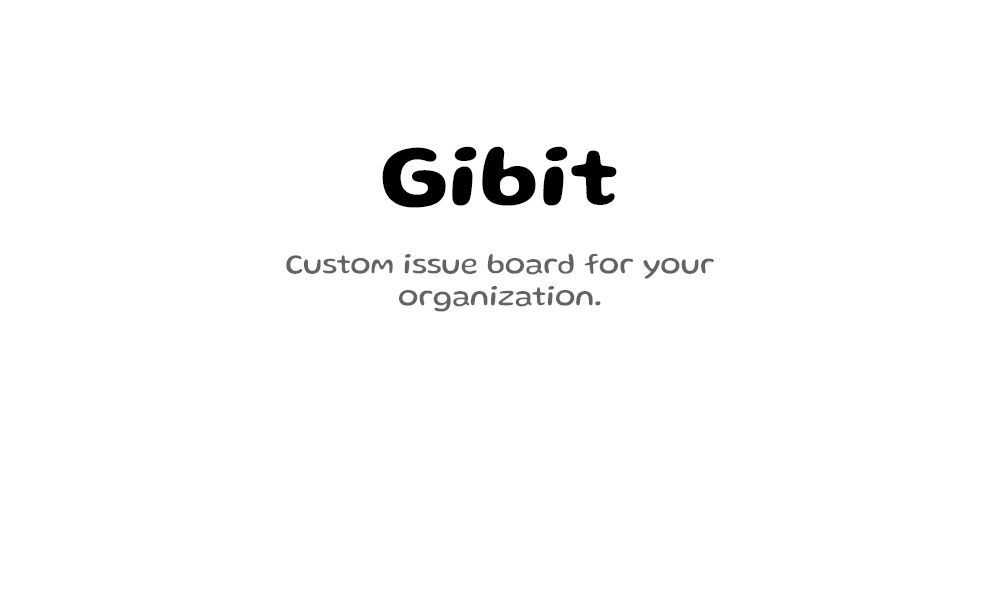
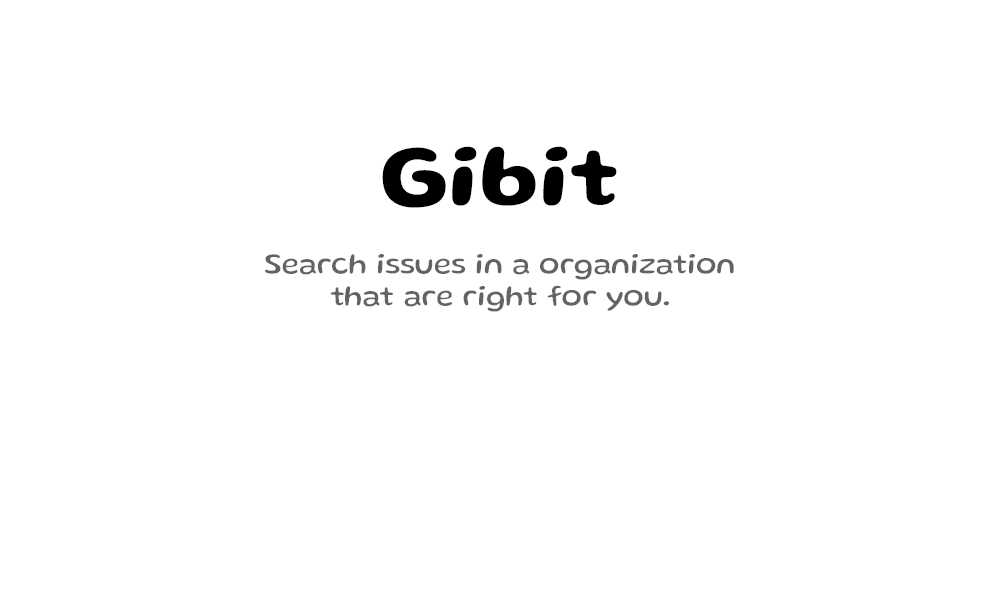
feat: udated readme

Changed region(s): [[0.248, 0.42, 0.744, 0.54]]

diff --git a/README.md b/README.md
@@ -1,3 +1,27 @@
 <img src="./assets/readme_banner.png" alt="banner" />
 
 
+
+<p align="center">
+<a href="https://github.com/Souvikns/gibit/blob/main/LICENSE"><img alt="GitHub license" src="https://img.shields.io/github/license/Souvikns/gibit?style=for-the-badge"></a>
+<img src="https://img.shields.io/badge/JavaScript-F7DF1E?style=for-the-badge&logo=javascript&logoColor=black" />
+<a href="http://gibit.vercel.app/"><img alt="GitHub deployments" src="https://img.shields.io/github/deployments/Souvikns/gibit/production?label=Vercel&style=for-the-badge"></a>
+</p>
+
+## Introduction 
+[Gibit](http://gibit.vercel.app/) is a small project that helps you to find open GitHub issues in any organizations. Unlike other projects, the focus is on issues in a particular organizations. 
+
+
+With the release of [org readme profile](https://github.blog/changelog/2021-09-14-readmes-for-organization-profiles/), organization's readme profile becomes the first thing a new contributer visits. This project aims to streamline the process and help the contributor to find the right issue for him. 
+
+<br>
+<br>
+<br>
+<br>
+<br>
+<br>
+
+
+<p align="center" style="font-size: 12px" >
+Built with ❤ by <a href="https://github.com/Souvikns">Souvik</a>
+</p>
